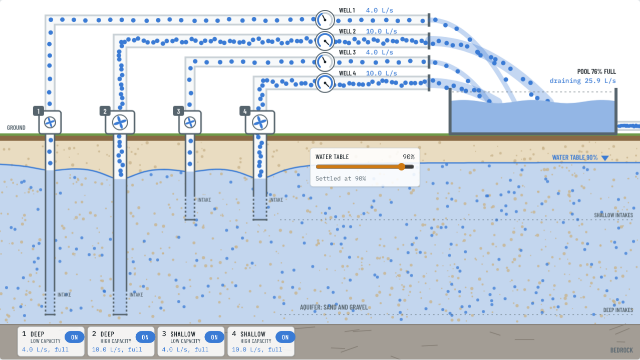
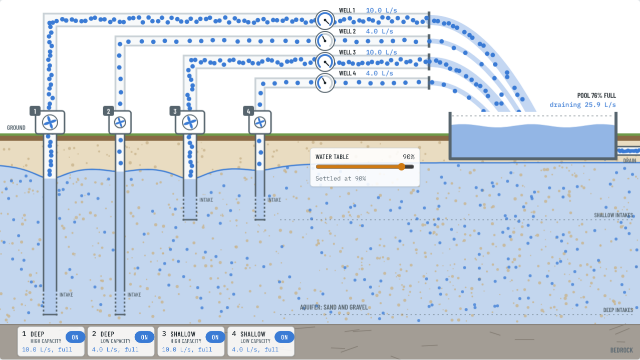
Aquifer Wells: swap pump capacities, sink the pool halfway into the ground
High-capacity pumps now take the first (higher) pipe of each pair, and
every pipe pours at the same speed, so the streams land in order and
don't cross. The pool sits about half below ground and drains through a
pipe that runs off the page.

Claude-Session: https://claude.ai/code/session_014Cr9Jx2T9FJaknfAa3Mf5t

diff --git a/animations/aquifer-wells/index.html b/animations/aquifer-wells/index.html
@@ -224,7 +224,7 @@ button:focus-visible, input:focus-visible { outline: 2px solid var(--accent); ou
   </div>
   <p class="rotate-hint">Turn your phone sideways to see the full diagram and use its controls.</p>
 
-  <div class="stage" id="stage"><canvas id="cv" width="1280" height="720" aria-label="Cross-section of the ground. A sand and gravel aquifer holds water up to the water table. Four wells go down into it: two deep wells on the left and two shallow wells to their right, each with a low-capacity or high-capacity pump. Each pump sends its water through a pipe with a flow meter that pours into a pool on the right, and the pool drains slowly out of its far side."></canvas>
+  <div class="stage" id="stage"><canvas id="cv" width="1280" height="720" aria-label="Cross-section of the ground. A sand and gravel aquifer holds water up to the water table. Four wells go down into it: two deep wells on the left and two shallow wells to their right, each with a low-capacity or high-capacity pump. Each pump sends its water through a pipe with a flow meter that pours into a pool dug half into the ground on the right, and the pool drains slowly through a pipe that runs off the page."></canvas>
     <!-- Controls laid over the diagram, positioned in diagram coordinates (1280 x 720) -->
     <div class="hud" id="hud">
       <div class="chip level-chip" style="left: 620px; top: 296px; width: 220px;">
@@ -234,19 +234,19 @@ button:focus-visible, input:focus-visible { outline: 2px solid var(--accent); ou
       </div>
       <!-- pump chips sit in the bedrock band, under their wells (left = well x - 70) -->
       <div class="chip pump-chip" style="left: 35px; bottom: 6px;">
-        <div class="chip-row"><span class="lbl"><span class="num">1</span><span>Deep<small>Low capacity</small></span></span><button type="button" class="switch" id="sw0" aria-pressed="true" aria-label="Pump 1, deep low-capacity">On</button></div>
+        <div class="chip-row"><span class="lbl"><span class="num">1</span><span>Deep<small>High capacity</small></span></span><button type="button" class="switch" id="sw0" aria-pressed="true" aria-label="Pump 1, deep high-capacity">On</button></div>
         <span class="pump-status" id="st0"></span>
       </div>
       <div class="chip pump-chip" style="left: 175px; bottom: 6px;">
-        <div class="chip-row"><span class="lbl"><span class="num">2</span><span>Deep<small>High capacity</small></span></span><button type="button" class="switch" id="sw1" aria-pressed="true" aria-label="Pump 2, deep high-capacity">On</button></div>
+        <div class="chip-row"><span class="lbl"><span class="num">2</span><span>Deep<small>Low capacity</small></span></span><button type="button" class="switch" id="sw1" aria-pressed="true" aria-label="Pump 2, deep low-capacity">On</button></div>
         <span class="pump-status" id="st1"></span>
       </div>
       <div class="chip pump-chip" style="left: 315px; bottom: 6px;">
-        <div class="chip-row"><span class="lbl"><span class="num">3</span><span>Shallow<small>Low capacity</small></span></span><button type="button" class="switch" id="sw2" aria-pressed="true" aria-label="Pump 3, shallow low-capacity">On</button></div>
+        <div class="chip-row"><span class="lbl"><span class="num">3</span><span>Shallow<small>High capacity</small></span></span><button type="button" class="switch" id="sw2" aria-pressed="true" aria-label="Pump 3, shallow high-capacity">On</button></div>
         <span class="pump-status" id="st2"></span>
       </div>
       <div class="chip pump-chip" style="left: 455px; bottom: 6px;">
-        <div class="chip-row"><span class="lbl"><span class="num">4</span><span>Shallow<small>High capacity</small></span></span><button type="button" class="switch" id="sw3" aria-pressed="true" aria-label="Pump 4, shallow high-capacity">On</button></div>
+        <div class="chip-row"><span class="lbl"><span class="num">4</span><span>Shallow<small>Low capacity</small></span></span><button type="button" class="switch" id="sw3" aria-pressed="true" aria-label="Pump 4, shallow low-capacity">On</button></div>
         <span class="pump-status" id="st3"></span>
       </div>
     </div>
@@ -388,17 +388,19 @@ window.Analog = (() => {
   const PIPE_END = 860;          // outlet pipes end here and pour into the pool
   const METER_X = 650;           // inline flow meters
   // Pool on the ground at the right; drains through its far wall at a rate that rises with its level
-  const POOL = { x0: 900, x1: 1232, top: 176, bottom: 266 };
+  const POOL = { x0: 900, x1: 1232, top: 224, bottom: 316 };   // about half below the ground at 270
   const POOL_VOL = 220;          // litres when full
   const DRAIN_FULL = 34;         // L/s draining when full: all four pumps (28 L/s) settle it near 82%
   const DRAIN_Y = POOL.bottom - 14;
+  const JET_SPEED = 230;         // px/s leaving each pipe end
 
   // The four wells. bottom = bottom of the intake screen.
   const wells = [
-    { x: 100, deep: true,  cap: 4,  row: 40,  name: 'Deep, low capacity' },
-    { x: 240, deep: true,  cap: 10, row: 82,  name: 'Deep, high capacity' },
-    { x: 380, deep: false, cap: 4,  row: 124, name: 'Shallow, low capacity' },
-    { x: 520, deep: false, cap: 10, row: 166, name: 'Shallow, high capacity' },
+    // high-capacity well first in each pair: its pipe runs higher and its stream reaches further, so streams don't cross
+    { x: 100, deep: true,  cap: 10, row: 40,  name: 'Deep, high capacity' },
+    { x: 240, deep: true,  cap: 4,  row: 82,  name: 'Deep, low capacity' },
+    { x: 380, deep: false, cap: 10, row: 124, name: 'Shallow, high capacity' },
+    { x: 520, deep: false, cap: 4,  row: 166, name: 'Shallow, low capacity' },
   ];
   const PUMP_TOP = 222;
   for (const w of wells) {
@@ -496,8 +498,8 @@ window.Analog = (() => {
         d.s += SPEED * dt;
         if (d.s >= w.len) {
           w.dots.splice(k, 1);
-          // pour out: faster and flatter for bigger flows, a dribble for low ones
-          const sp = 110 + 22 * w.flow + Math.random() * 30;
+          // pour out at the same speed from every pipe, so higher pipes land further out and streams don't cross
+          const sp = JET_SPEED + Math.random() * 20;
           jets.push({ x: PIPE_END, y: w.row + d.off, vx: sp, vy: (Math.random() - 0.3) * 20, w });
         }
       }
@@ -685,7 +687,7 @@ window.Analog = (() => {
     // Outflow: a stream whose width follows the flow, plus the dots themselves
     for (const w of wells) {
       if (w.flow > 0.05) {
-        const sp = 110 + 22 * w.flow + 15, g = 520;
+        const sp = JET_SPEED + 10, g = 520;
         ctx.beginPath();
         for (let t = 0; t <= 0.9; t += 0.03) {
           const x = PIPE_END + sp * t, y = w.row + 0.5 * g * t * t;
@@ -738,9 +740,11 @@ window.Analog = (() => {
 
   function drawPool() {
     const { x0, x1, top, bottom } = POOL, sy = poolSurface(), t = performance.now() / 1000;
-    // drain pipe through the far wall
-    ctx.strokeStyle = colors.line; ctx.lineWidth = 20; ctx.beginPath(); ctx.moveTo(x1, DRAIN_Y); ctx.lineTo(W, DRAIN_Y); ctx.stroke();
-    ctx.strokeStyle = colors.vessel; ctx.lineWidth = 13; ctx.stroke();
+    // dug-out pit: clear the ground inside the pool walls
+    ctx.fillStyle = colors.panel; ctx.fillRect(x0, top, x1 - x0, bottom - top + 2);
+    // drain pipe from the low corner, through the far wall and off the page
+    ctx.strokeStyle = colors['steel-dark']; ctx.lineWidth = 20; ctx.beginPath(); ctx.moveTo(x1 - 2, DRAIN_Y); ctx.lineTo(W + 4, DRAIN_Y); ctx.stroke();
+    ctx.strokeStyle = colors.vessel; ctx.lineWidth = 14; ctx.stroke();
     for (const d of drainDots) dot(d.x, DRAIN_Y + d.off * 0.4, colors.water, 3.5);
     // water, with a gentle wave that's livelier the more is pouring in
     const inflow = wells.reduce((a, w) => a + w.flow, 0), amp = 1 + inflow * 0.08;
@@ -757,6 +761,8 @@ window.Analog = (() => {
     // walls
     ctx.strokeStyle = colors['steel-dark']; ctx.lineWidth = 6; ctx.lineJoin = 'round';
     ctx.beginPath(); ctx.moveTo(x0, top); ctx.lineTo(x0, bottom + 2); ctx.lineTo(x1, bottom + 2); ctx.lineTo(x1, top); ctx.stroke();
+    ctx.fillStyle = colors.muted; ctx.font = '600 12px "Barlow Condensed", sans-serif'; ctx.textAlign = 'right';
+    ctx.fillText('DRAIN', W - 8, DRAIN_Y + 24);
     ctx.lineJoin = 'miter';
     ctx.fillStyle = colors.fg; ctx.font = '600 14px "Barlow Condensed", sans-serif'; ctx.textAlign = 'right';
     ctx.fillText('POOL ' + Math.round(pool * 100) + '% FULL', x1, top - 28);

diff --git a/animations/aquifer-wells/src/index.html b/animations/aquifer-wells/src/index.html
@@ -73,7 +73,7 @@
   </div>
   <p class="rotate-hint">Turn your phone sideways to see the full diagram and use its controls.</p>
 
-  <div class="stage" id="stage"><canvas id="cv" width="1280" height="720" aria-label="Cross-section of the ground. A sand and gravel aquifer holds water up to the water table. Four wells go down into it: two deep wells on the left and two shallow wells to their right, each with a low-capacity or high-capacity pump. Each pump sends its water through a pipe with a flow meter that pours into a pool on the right, and the pool drains slowly out of its far side."></canvas>
+  <div class="stage" id="stage"><canvas id="cv" width="1280" height="720" aria-label="Cross-section of the ground. A sand and gravel aquifer holds water up to the water table. Four wells go down into it: two deep wells on the left and two shallow wells to their right, each with a low-capacity or high-capacity pump. Each pump sends its water through a pipe with a flow meter that pours into a pool dug half into the ground on the right, and the pool drains slowly through a pipe that runs off the page."></canvas>
     <!-- Controls laid over the diagram, positioned in diagram coordinates (1280 x 720) -->
     <div class="hud" id="hud">
       <div class="chip level-chip" style="left: 620px; top: 296px; width: 220px;">
@@ -83,19 +83,19 @@
       </div>
       <!-- pump chips sit in the bedrock band, under their wells (left = well x - 70) -->
       <div class="chip pump-chip" style="left: 35px; bottom: 6px;">
-        <div class="chip-row"><span class="lbl"><span class="num">1</span><span>Deep<small>Low capacity</small></span></span><button type="button" class="switch" id="sw0" aria-pressed="true" aria-label="Pump 1, deep low-capacity">On</button></div>
+        <div class="chip-row"><span class="lbl"><span class="num">1</span><span>Deep<small>High capacity</small></span></span><button type="button" class="switch" id="sw0" aria-pressed="true" aria-label="Pump 1, deep high-capacity">On</button></div>
         <span class="pump-status" id="st0"></span>
       </div>
       <div class="chip pump-chip" style="left: 175px; bottom: 6px;">
-        <div class="chip-row"><span class="lbl"><span class="num">2</span><span>Deep<small>High capacity</small></span></span><button type="button" class="switch" id="sw1" aria-pressed="true" aria-label="Pump 2, deep high-capacity">On</button></div>
+        <div class="chip-row"><span class="lbl"><span class="num">2</span><span>Deep<small>Low capacity</small></span></span><button type="button" class="switch" id="sw1" aria-pressed="true" aria-label="Pump 2, deep low-capacity">On</button></div>
         <span class="pump-status" id="st1"></span>
       </div>
       <div class="chip pump-chip" style="left: 315px; bottom: 6px;">
-        <div class="chip-row"><span class="lbl"><span class="num">3</span><span>Shallow<small>Low capacity</small></span></span><button type="button" class="switch" id="sw2" aria-pressed="true" aria-label="Pump 3, shallow low-capacity">On</button></div>
+        <div class="chip-row"><span class="lbl"><span class="num">3</span><span>Shallow<small>High capacity</small></span></span><button type="button" class="switch" id="sw2" aria-pressed="true" aria-label="Pump 3, shallow high-capacity">On</button></div>
         <span class="pump-status" id="st2"></span>
       </div>
       <div class="chip pump-chip" style="left: 455px; bottom: 6px;">
-        <div class="chip-row"><span class="lbl"><span class="num">4</span><span>Shallow<small>High capacity</small></span></span><button type="button" class="switch" id="sw3" aria-pressed="true" aria-label="Pump 4, shallow high-capacity">On</button></div>
+        <div class="chip-row"><span class="lbl"><span class="num">4</span><span>Shallow<small>Low capacity</small></span></span><button type="button" class="switch" id="sw3" aria-pressed="true" aria-label="Pump 4, shallow low-capacity">On</button></div>
         <span class="pump-status" id="st3"></span>
       </div>
     </div>
@@ -131,17 +131,19 @@
   const PIPE_END = 860;          // outlet pipes end here and pour into the pool
   const METER_X = 650;           // inline flow meters
   // Pool on the ground at the right; drains through its far wall at a rate that rises with its level
-  const POOL = { x0: 900, x1: 1232, top: 176, bottom: 266 };
+  const POOL = { x0: 900, x1: 1232, top: 224, bottom: 316 };   // about half below the ground at 270
   const POOL_VOL = 220;          // litres when full
   const DRAIN_FULL = 34;         // L/s draining when full: all four pumps (28 L/s) settle it near 82%
   const DRAIN_Y = POOL.bottom - 14;
+  const JET_SPEED = 230;         // px/s leaving each pipe end
 
   // The four wells. bottom = bottom of the intake screen.
   const wells = [
-    { x: 100, deep: true,  cap: 4,  row: 40,  name: 'Deep, low capacity' },
-    { x: 240, deep: true,  cap: 10, row: 82,  name: 'Deep, high capacity' },
-    { x: 380, deep: false, cap: 4,  row: 124, name: 'Shallow, low capacity' },
-    { x: 520, deep: false, cap: 10, row: 166, name: 'Shallow, high capacity' },
+    // high-capacity well first in each pair: its pipe runs higher and its stream reaches further, so streams don't cross
+    { x: 100, deep: true,  cap: 10, row: 40,  name: 'Deep, high capacity' },
+    { x: 240, deep: true,  cap: 4,  row: 82,  name: 'Deep, low capacity' },
+    { x: 380, deep: false, cap: 10, row: 124, name: 'Shallow, high capacity' },
+    { x: 520, deep: false, cap: 4,  row: 166, name: 'Shallow, low capacity' },
   ];
   const PUMP_TOP = 222;
   for (const w of wells) {
@@ -239,8 +241,8 @@
         d.s += SPEED * dt;
         if (d.s >= w.len) {
           w.dots.splice(k, 1);
-          // pour out: faster and flatter for bigger flows, a dribble for low ones
-          const sp = 110 + 22 * w.flow + Math.random() * 30;
+          // pour out at the same speed from every pipe, so higher pipes land further out and streams don't cross
+          const sp = JET_SPEED + Math.random() * 20;
           jets.push({ x: PIPE_END, y: w.row + d.off, vx: sp, vy: (Math.random() - 0.3) * 20, w });
         }
       }
@@ -428,7 +430,7 @@
     // Outflow: a stream whose width follows the flow, plus the dots themselves
     for (const w of wells) {
       if (w.flow > 0.05) {
-        const sp = 110 + 22 * w.flow + 15, g = 520;
+        const sp = JET_SPEED + 10, g = 520;
         ctx.beginPath();
         for (let t = 0; t <= 0.9; t += 0.03) {
           const x = PIPE_END + sp * t, y = w.row + 0.5 * g * t * t;
@@ -481,9 +483,11 @@
 
   function drawPool() {
     const { x0, x1, top, bottom } = POOL, sy = poolSurface(), t = performance.now() / 1000;
-    // drain pipe through the far wall
-    ctx.strokeStyle = colors.line; ctx.lineWidth = 20; ctx.beginPath(); ctx.moveTo(x1, DRAIN_Y); ctx.lineTo(W, DRAIN_Y); ctx.stroke();
-    ctx.strokeStyle = colors.vessel; ctx.lineWidth = 13; ctx.stroke();
+    // dug-out pit: clear the ground inside the pool walls
+    ctx.fillStyle = colors.panel; ctx.fillRect(x0, top, x1 - x0, bottom - top + 2);
+    // drain pipe from the low corner, through the far wall and off the page
+    ctx.strokeStyle = colors['steel-dark']; ctx.lineWidth = 20; ctx.beginPath(); ctx.moveTo(x1 - 2, DRAIN_Y); ctx.lineTo(W + 4, DRAIN_Y); ctx.stroke();
+    ctx.strokeStyle = colors.vessel; ctx.lineWidth = 14; ctx.stroke();
     for (const d of drainDots) dot(d.x, DRAIN_Y + d.off * 0.4, colors.water, 3.5);
     // water, with a gentle wave that's livelier the more is pouring in
     const inflow = wells.reduce((a, w) => a + w.flow, 0), amp = 1 + inflow * 0.08;
@@ -500,6 +504,8 @@
     // walls
     ctx.strokeStyle = colors['steel-dark']; ctx.lineWidth = 6; ctx.lineJoin = 'round';
     ctx.beginPath(); ctx.moveTo(x0, top); ctx.lineTo(x0, bottom + 2); ctx.lineTo(x1, bottom + 2); ctx.lineTo(x1, top); ctx.stroke();
+    ctx.fillStyle = colors.muted; ctx.font = '600 12px "Barlow Condensed", sans-serif'; ctx.textAlign = 'right';
+    ctx.fillText('DRAIN', W - 8, DRAIN_Y + 24);
     ctx.lineJoin = 'miter';
     ctx.fillStyle = colors.fg; ctx.font = '600 14px "Barlow Condensed", sans-serif'; ctx.textAlign = 'right';
     ctx.fillText('POOL ' + Math.round(pool * 100) + '% FULL', x1, top - 28);

diff --git a/README.md b/README.md
@@ -55,9 +55,9 @@ Three sources push colored particles into a vessel, the particles mix, and the m
 
 Four wells draw from one sand and gravel aquifer above bedrock. Each pump sends its water through its own pipe, past a flow meter, into a pool on the right.
 
-- Wells 1 and 2 (left) are deep, wells 3 and 4 are shallow. Wells 1 and 3 have low-capacity pumps (up to 4 L/s), wells 2 and 4 high-capacity ones (up to 10 L/s).
+- Wells 1 and 2 (left) are deep, wells 3 and 4 are shallow. Wells 1 and 3 have high-capacity pumps (up to 10 L/s), wells 2 and 4 low-capacity ones (up to 4 L/s). Every pipe pours out at the same speed, so the higher pipes land further into the pool and the streams don't cross.
 - The Water table slider (in the ground, below the flow meters) sets a target level, 0 to 100%. The water table moves toward it slowly (about 63% of the way every 4 seconds).
 - Each well has a 50px intake screen. A pump runs at full rate while the water near its well is above the screen, slows as the water drops past the screen, and runs dry below it.
 - A running pump pulls the water table down around its well, 3px per L/s, so a high-capacity pump starts losing flow at a higher water table than a low-capacity one at the same depth.
 - Flow shows as dots in each pipe (2.4 dots/s per L/s at a constant speed, so tighter spacing means more flow), an inline flow meter, and the width of the stream pouring into the pool.
-- The pool holds 220 L and drains at 34 L/s × how full it is, so it settles at (total pumped ÷ 34): about 82% with all four pumps at full rate.
+- The pool is dug about halfway into the ground and drains through a pipe that runs off the page. It holds 220 L and drains at 34 L/s × how full it is, so it settles at (total pumped ÷ 34): about 82% with all four pumps at full rate.
